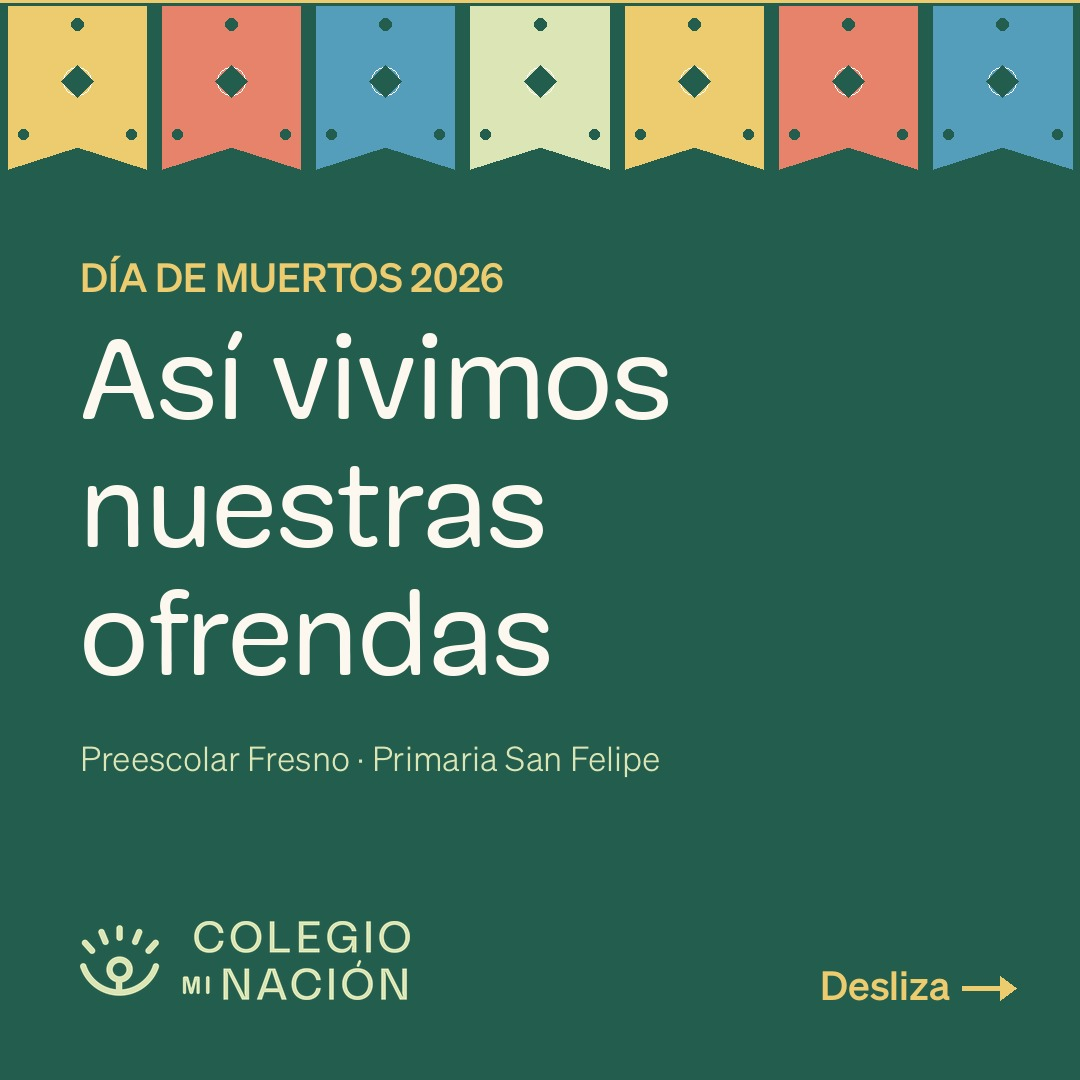
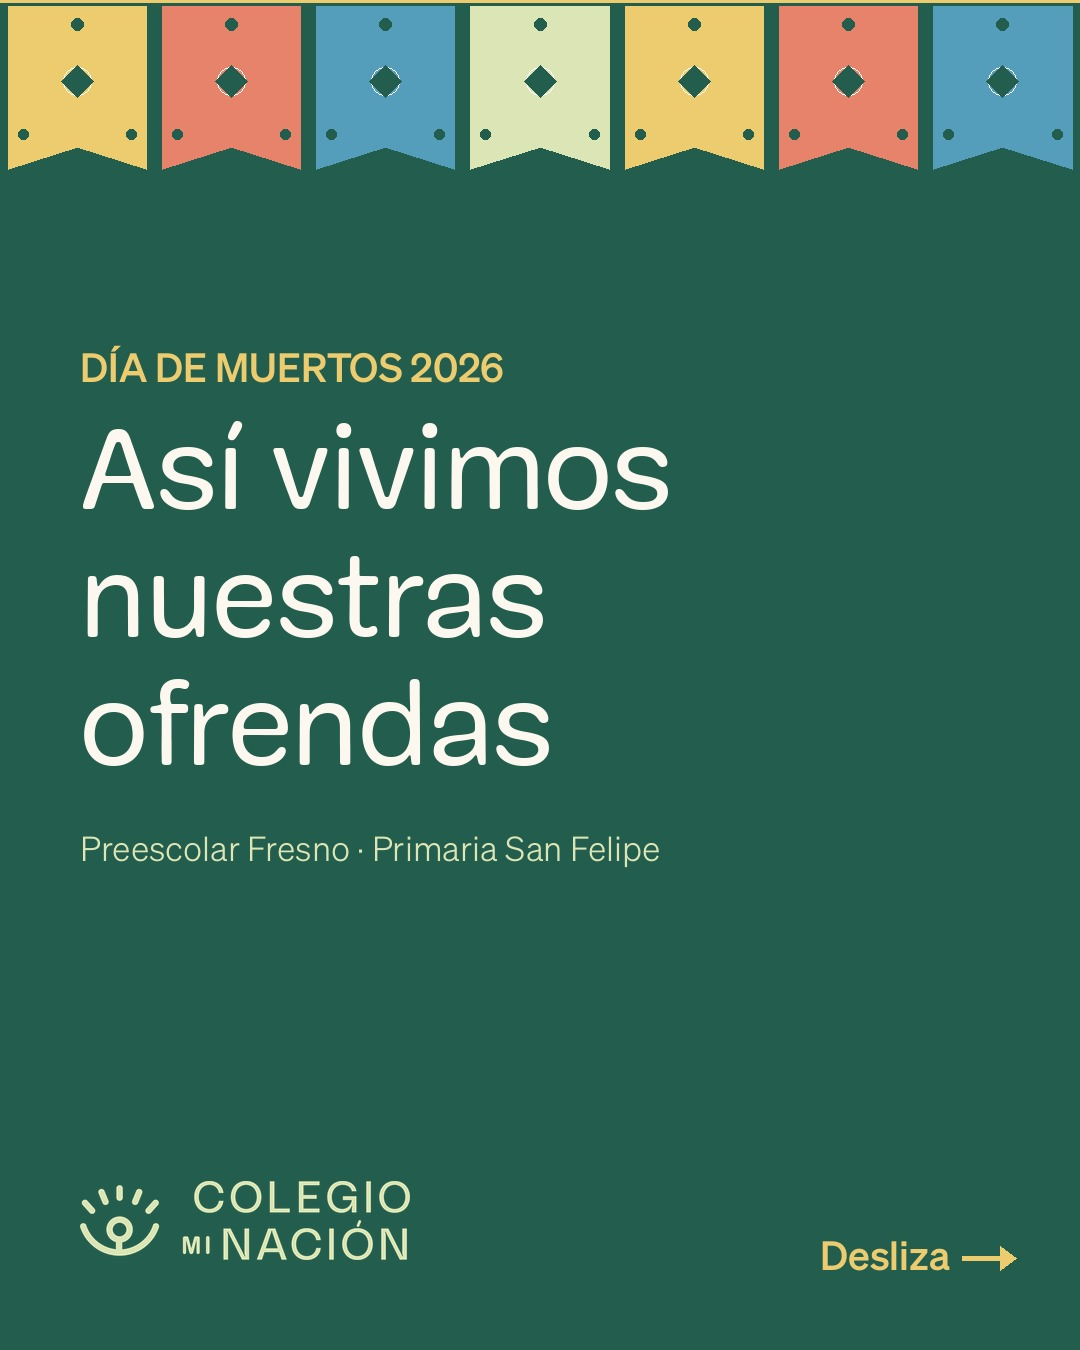
Carrusel ofrendas: portada y cierre en 4:5 dentro del recorte del perfil
Claude-Session: https://claude.ai/code/session_01HgFACw2PmqrjwK6kvGqCY9

diff --git a/scripts/slides.py b/scripts/slides.py
@@ -32,30 +32,30 @@ def wrap(d,text,font,maxw):
         else: lines.append(cur); cur=w
     lines.append(cur); return lines
 # COVER 1080x1080
-for name,(W,H) in {"01-portada.jpg":(1080,1080),"story-portada.jpg":(1080,1920)}.items():
+for name,(W,H) in {"01-portada.jpg":(1080,1350),"story-portada.jpg":(1080,1920)}.items():
     BG=G
     im=Image.new("RGB",(W,H),G); d=ImageDraw.Draw(im)
-    top = 0 if H==1080 else 260
+    top = 0 if H==1350 else 260
     picado(d,W,top,7,[Y,P,B,LG])
     f1=ImageFont.truetype(MIJA,118); f2=ImageFont.truetype(SB,40); f3=ImageFont.truetype(SL,34)
-    y = 330 if H==1080 else 720
+    y = 420 if H==1350 else 720
     d.text((80,y-70),"DÍA DE MUERTOS 2026",font=f2,fill=Y)
     for ln in ["Así vivimos","nuestras","ofrendas"]:
         d.text((80,y),ln,font=f1,fill=C); y+=128
     d.text((80,y+30),"Preescolar Fresno · Primaria San Felipe",font=f3,fill=LG)
     lg=logo(BR+"logo-horizontal-verdeclaro.png",330)
-    im.paste(lg,(80,H-lg.height-(80 if H==1080 else 440)),lg)
-    if H==1080:
+    im.paste(lg,(80,H-lg.height-(90 if H==1350 else 440)),lg)
+    if H==1350:
         d.text((W-130,H-112),"Desliza",font=f2,fill=Y,anchor="ra")
         ay=H-92; d.line([(W-118,ay),(W-80,ay)],fill=Y,width=5); d.polygon([(W-80,ay-12),(W-64,ay),(W-80,ay+12)],fill=Y)
     im.save(OUT+name,quality=92)
 # CTA 1080x1080
 BG=C
-W=H=1080
+W,H=1080,1350
 im=Image.new("RGB",(W,H),C); d=ImageDraw.Draw(im)
 picado(d,W,0,7,[G,Y,B,P],seed=5)
 f1=ImageFont.truetype(MIJA,84); f2=ImageFont.truetype(SB,38); f3=ImageFont.truetype(SL,36)
-y=300
+y=360
 for ln in ["Tradición, valores","y comunidad,","todos los días."]:
     d.text((80,y),ln,font=f1,fill=G); y+=94
 y+=30
